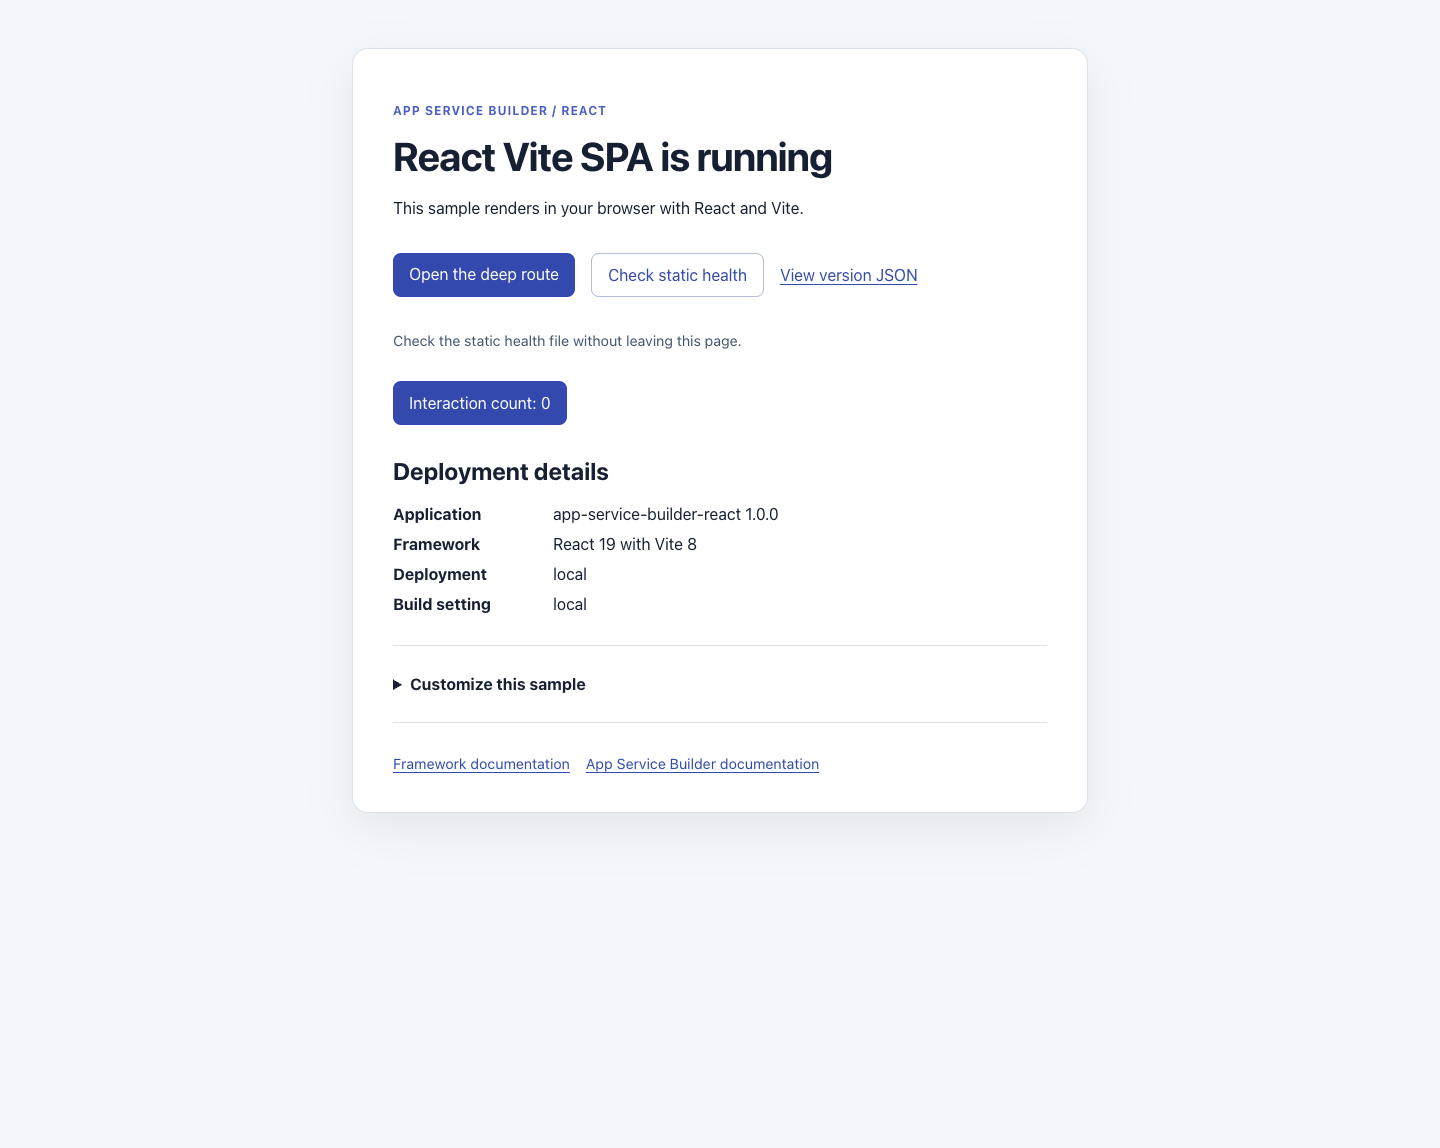
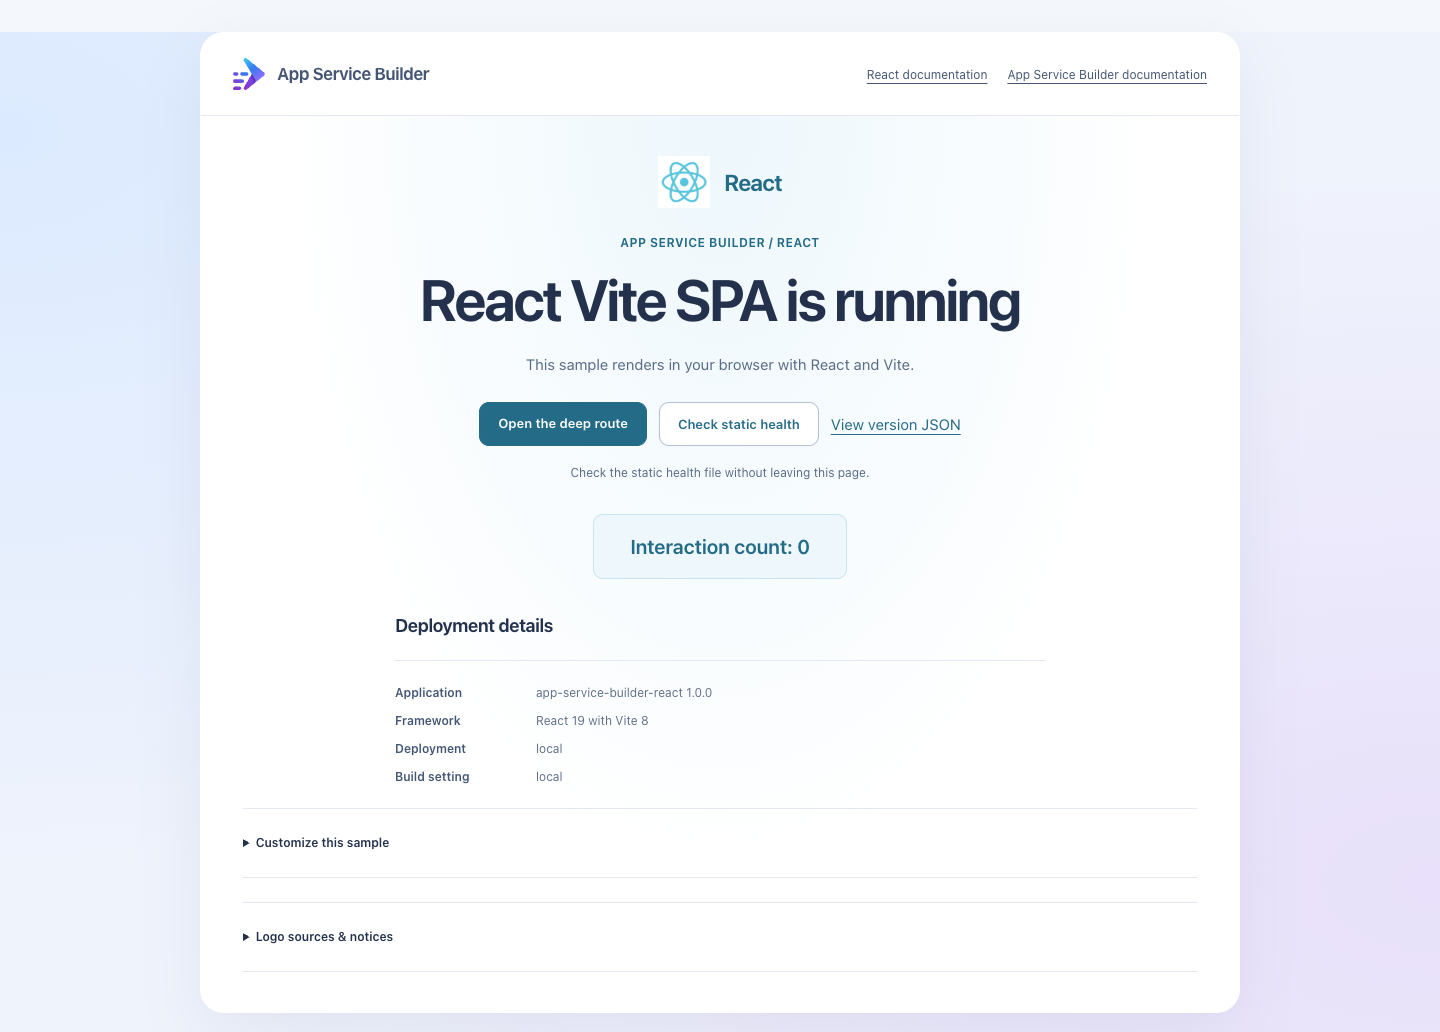
Apply approved language-family sample styling
Preserve sample interactions, inline health checks and honest customization guidance; refresh the locally rendered README screenshot.

diff --git a/public/brand/family.v1.css b/public/brand/family.v1.css
@@ -1,0 +1,36 @@
+html body{margin:0;min-height:100vh;background:radial-gradient(ellipse at 0 10%,#dceaff,transparent 60%),radial-gradient(ellipse at 100% 85%,#e8e0fa,transparent 60%),#eff3fc;color:#23314c;font-family:"Segoe UI",system-ui,sans-serif;font-size:15px;--accent:#246b87;--line:#e4e8f2}
+main.sample-sheet{width:min(1040px,calc(100% - 64px));margin:32px auto;padding:0;background:#fff;border:1px solid #ffffffbd;border-radius:24px;box-shadow:0 22px 65px #3b487515;overflow:hidden}
+.sample-header{display:flex;align-items:center;justify-content:space-between;gap:24px;padding:25px 32px;border-bottom:1px solid var(--line)}
+.sample-brand{display:flex;align-items:center;gap:12px;font-size:17px;font-weight:650;letter-spacing:-.02em;color:#23314c;text-decoration:none}
+.sample-brand img{width:32px;height:32px;object-fit:contain}
+.sample-header nav{display:flex;flex-wrap:wrap;gap:20px;margin:0;font-size:12px}
+.sample-header a{color:#455674;text-underline-offset:4px}
+.sample-content{padding:40px 42px}
+.ecosystem-logo{display:flex;align-items:center;gap:14px;margin-bottom:24px;color:var(--accent);font-size:23px;font-weight:650;letter-spacing:-.03em}
+.ecosystem-logo img{width:52px;height:52px;object-fit:contain}
+.sample-content h1{font-size:clamp(32px,4.4vw,58px);line-height:1.09;letter-spacing:-.04em;font-weight:650;margin:0 0 20px;text-wrap:balance}
+.sample-content h2{font-size:18px;font-weight:650;letter-spacing:-.02em;margin:0 0 14px}
+.sample-content p{line-height:1.8;color:#596b86}
+.sample-content .eyebrow{color:var(--accent);font-size:12px;font-weight:650;letter-spacing:.04em;margin:0 0 14px}
+.sample-content nav{display:flex;flex-wrap:wrap;align-items:center;gap:12px;margin:24px 0 16px}
+.sample-content a{color:var(--accent);text-underline-offset:4px}
+.sample-content button,.sample-content .button{min-height:44px;padding:12px 18px;border:1px solid var(--accent);border-radius:10px;background:var(--accent);color:#fff;font:inherit;font-size:13px;font-weight:600;text-decoration:none;cursor:pointer}
+.sample-content button.secondary{background:#fff;color:var(--accent)}
+.sample-content button:hover,.sample-content .button:hover{filter:brightness(.92)}
+.sample-content button:disabled{opacity:.6;cursor:wait}
+.sample-content .health-result{font-size:12px;line-height:1.8;min-height:24px}
+.sample-content dl{display:grid;gap:13px;margin:24px 0 0;padding-top:24px;border-top:1px solid var(--line);font-size:12px}
+.sample-content dl div{display:grid;grid-template-columns:125px 1fr;gap:16px;text-align:left}
+.sample-content dt{color:#435675;font-weight:600}
+.sample-content dd{margin:0;color:#62718a;overflow-wrap:anywhere}
+.sample-content details{margin-top:24px;padding:12px 0;border-block:1px solid var(--line);font-size:12px;text-align:left}
+.sample-content summary{cursor:pointer;font-weight:600;min-height:44px;align-content:center}
+.sample-content code{font-size:12px;overflow-wrap:anywhere}
+.sample-content .documentation{font-size:12px;justify-content:space-between}
+a:focus-visible,button:focus-visible,summary:focus-visible{outline:3px solid #7660d0;outline-offset:4px}
+.sample-content{text-align:center;background:radial-gradient(ellipse at 50% 0,#edf7fc,transparent 60%),#fff}
+.ecosystem-logo,.sample-content nav{justify-content:center}
+.sample-content .counter{display:block;margin:28px auto 36px;padding:20px 36px;font-size:20px;background:#edf7fc;color:#246b87;border-color:#c6e4f1}
+.sample-content>section{max-width:650px;margin:0 auto;text-align:left}
+.sample-content>p:not(.eyebrow):not(.health-result){max-width:45ch;margin-inline:auto}
+@media(max-width:650px){main.sample-sheet{width:calc(100% - 30px);margin:18px auto;border-radius:19px}.sample-header{padding:22px;flex-wrap:wrap;gap:18px}.sample-header nav{width:100%;justify-content:space-between;gap:12px;font-size:11px}.sample-content{padding:32px 22px}.sample-content h1{font-size:36px}.sample-content dl div{grid-template-columns:1fr;gap:4px}.sample-content nav{align-items:stretch}.sample-content .documentation{gap:14px}}

diff --git a/src/App.jsx b/src/App.jsx
@@ -13,10 +13,20 @@ const appInfo = {
 
 function Layout({ eyebrow, title, children }) {
   return (
-    <main>
+    <main className="sample-sheet">
+      <header className="sample-header">
+        <Link className="sample-brand" to="/"><img src="/brand/builder.svg" alt="" width="32" height="32" />App Service Builder</Link>
+        <nav aria-label="Documentation">
+          <a href="https://react.dev/">React documentation</a>
+          <a href="https://builder.appservice.azure.com/docs/">App Service Builder documentation</a>
+        </nav>
+      </header>
+      <div className="sample-content">
+      <div className="ecosystem-logo"><img src="/brand/react.png" alt="" width="52" height="52" /><span>React</span></div>
       <p className="eyebrow">{eyebrow}</p>
       <h1>{title}</h1>
       {children}
+      </div>
     </main>
   )
 }
@@ -89,12 +99,14 @@ function Home() {
       <details>
         <summary>Customize this sample</summary>
         <p>In your fork, edit the home page in <code>src/App.jsx</code> and the styles in
-          <code> src/App.css</code>. Commit your changes and deploy your fork through your Builder App.</p>
+          <code> public/brand/family.v1.css</code>. Commit your changes and deploy your fork through your Builder App.</p>
       </details>
-      <nav className="documentation" aria-label="Documentation">
-        <a href="https://react.dev/">Framework documentation</a>
-        <a href="https://builder.appservice.azure.com/docs/">App Service Builder documentation</a>
-      </nav>
+      <details>
+        <summary>Logo sources &amp; notices</summary>
+        <p>Unmodified <a href="https://react.dev/">React artwork</a> identifies this framework.
+          React is a trademark of Meta Platforms, Inc. App Service Builder uses its
+          supplied official mark. No endorsement implied.</p>
+      </details>
     </Layout>
   )
 }

diff --git a/index.html b/index.html
@@ -8,6 +8,7 @@
       content="React and Vite single-page application sample for Azure App Service Builder."
     />
     <title>App Service Builder: React sample</title>
+    <link rel="stylesheet" href="/brand/family.v1.css" />
   </head>
   <body>
     <div id="root"></div>

diff --git a/README.md b/README.md
@@ -25,6 +25,19 @@ documentation are labeled separately.
 
 ![React sample root page with inline health checking, an interactive counter, local deployment details, and customization guidance](docs/images/sample.png)
 
+**LOCAL — Microsoft Edge, 1440px desktop, root `/`, production static build.**
+The React-centered daylight composition preserves the existing counter,
+React Router paths, and inline static-file health check. Edit `src/App.jsx`
+for content and `public/brand/family.v1.css` for the visual family; baseline
+styles remain in `src/App.css`.
+
+### Logo provenance
+
+`public/brand/builder.svg` is the supplied official App Service Builder mark.
+`public/brand/react.png` is the unmodified [official React site icon](https://react.dev/apple-touch-icon.png)
+from [react.dev](https://react.dev/). React is a trademark of Meta Platforms, Inc.
+Logos identify the stack; no endorsement is implied.
+
 Captured at `/` from the production build served locally in Microsoft Edge.
 The `local` markers describe this sample build, not an Azure deployment.
 This screenshot is local sample evidence only.
